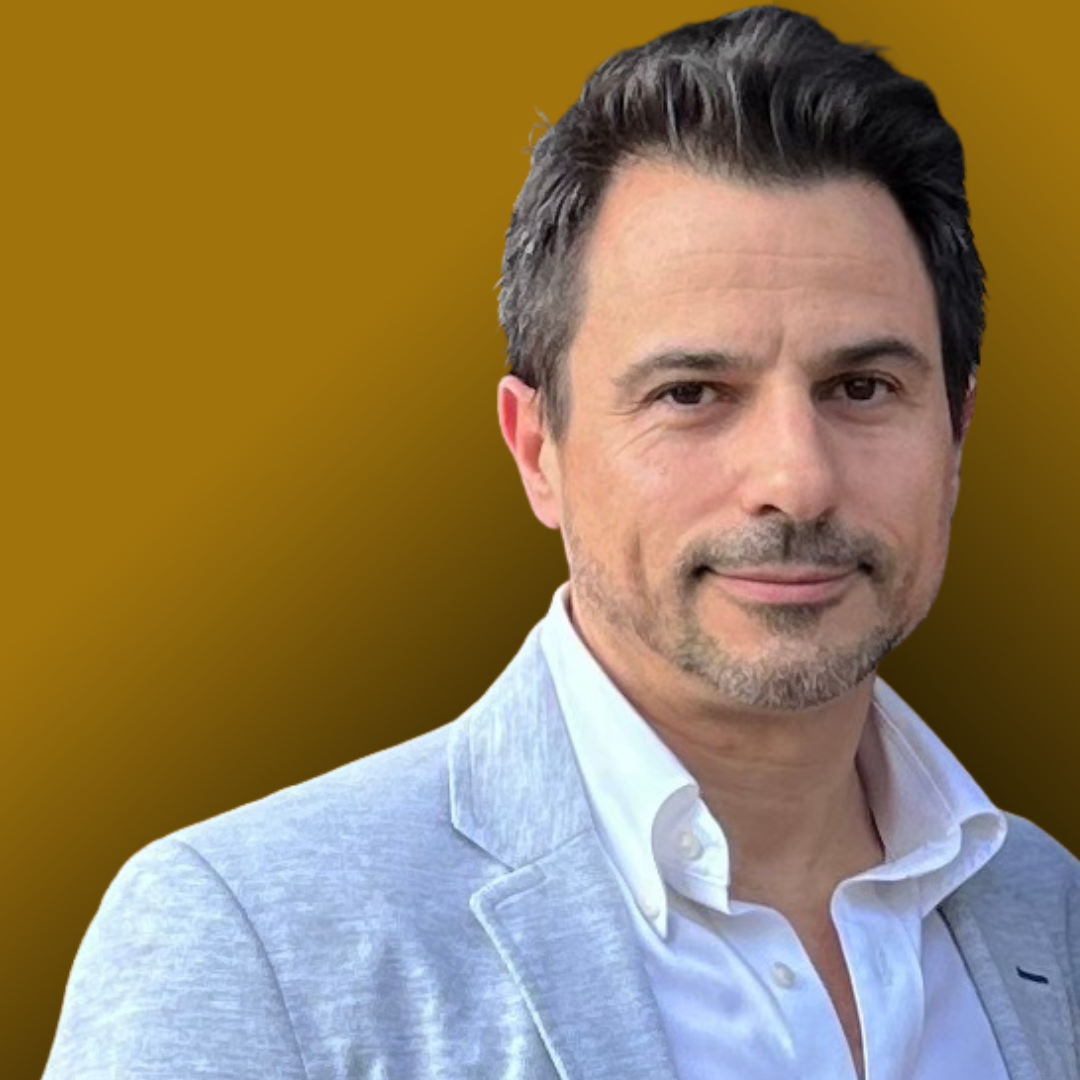
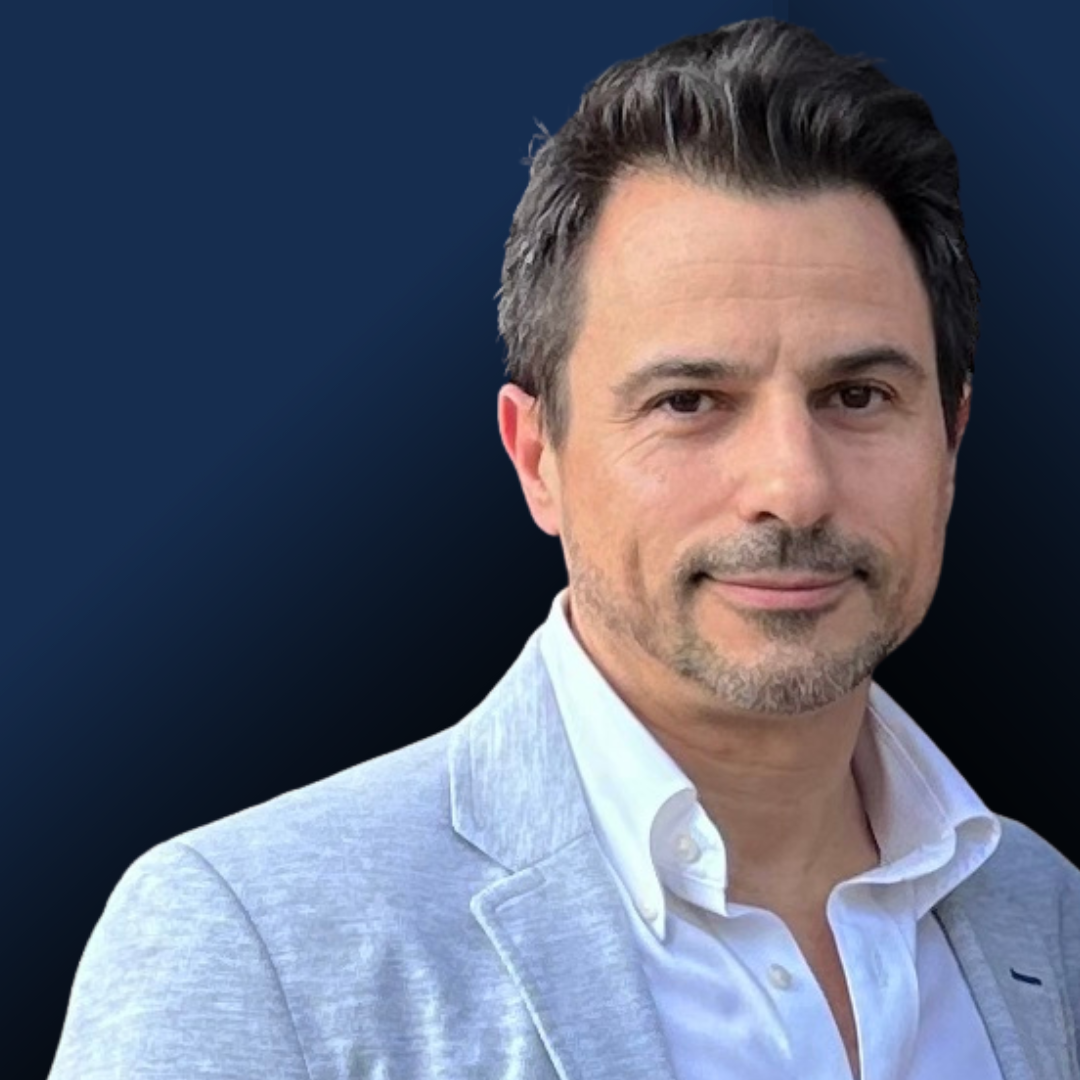
colores our team

diff --git a/src/sections/ourTeam/OurTeam.tsx b/src/sections/ourTeam/OurTeam.tsx
@@ -13,18 +13,30 @@ function TeamSection() {
       
 
       {/* CEO Section */}
-      <Card variant="outlined" sx={{color:'black', backgroundColor:"#F9F9F9", border:"#ededed"}} style={{ marginBottom: "3rem", display: "flex"}}>
+      <Card variant="outlined" sx={{color:'black', backgroundColor:"#ededed", border:"#ededed"}} style={{ marginBottom: "3rem", display: "flex"}}>
         <div style={{ width: "30%", padding: "1.5rem" }}>
         <Image src="/assets/CEO.png" alt="CEO" width={200} height={200} style={{borderRadius:"10%"}} />
         </div>
         <div> 
-            <CardContent style={{ width: "100%", padding: "3.5rem" }}>
-              <Typography variant="h4" component="h2" style={{ fontWeight: 500 }}>
+            <CardContent style={{ width: "100%", padding: "3rem" }}>
+              
+              <Typography variant="h5" component="h2" sx={{ 
+                fontFamily: 'Raleway',
+                fontWeight: 700,
+                fontSize: { xs: '16px', md: '32px' },
+                lineHeight: { xs: '24px', md: '50px' },
+                color: 'black',}}>
                 {ceo.owner}
               </Typography>
-              <Typography variant="subtitle1" style={{ /* color: "#A0730C",  */ color:"000000", fontWeight: 500, marginBottom: "1rem" }}>
+              <Typography variant="subtitle1" sx={{ 
+                fontFamily: 'Raleway',
+                fontWeight: 600,
+                fontSize: { xs: '16px', md: '24px' },
+                lineHeight: { xs: '24px', md: '50px' },
+                color:'#162D4F',}}>
                 {ceo.title}
               </Typography>
+
               <div style={{ display: "flex", gap: "4rem", marginRight:"4rem"}}>
                 <div style={{ flex: 1 }}>
                   <Typography variant="body2" color="textSecondary">
@@ -57,7 +69,7 @@ function TeamSection() {
               <Typography variant="body1" style={{ fontWeight: 400 }}>
                 {member.name}
               </Typography>
-              <Typography variant="body2" style={{  /* color: "#A0730C",  */ color:"000000",  }}>
+              <Typography variant="body2" style={{ color: "#162D4F" }}>
                 {member.role}
               </Typography>
             </div>

diff --git a/src/components/successCases/SuccessCases.tsx b/src/components/successCases/SuccessCases.tsx
@@ -8,7 +8,7 @@ export default function Component() {
     { back: '#A0730C', text: '#000000',imageAlignment:'left' }, 
     { back: '#162D4F', text: '#E8FE74',imageAlignment:'left'  },
     { back: '#494949', text: '#E8FE74',imageAlignment:'rigth' },
-    { back: '#E8FE74', text: '#000000',imageAlignment:'rigth'},
+    { back: '#E8FE74', text: '#162D4F',imageAlignment:'rigth'},
     { back: '#162D4F', text: '#E8FE74',imageAlignment:'left' },
     { back: '#353535', text: '#FEFEFE',imageAlignment:'left' }
   ];
